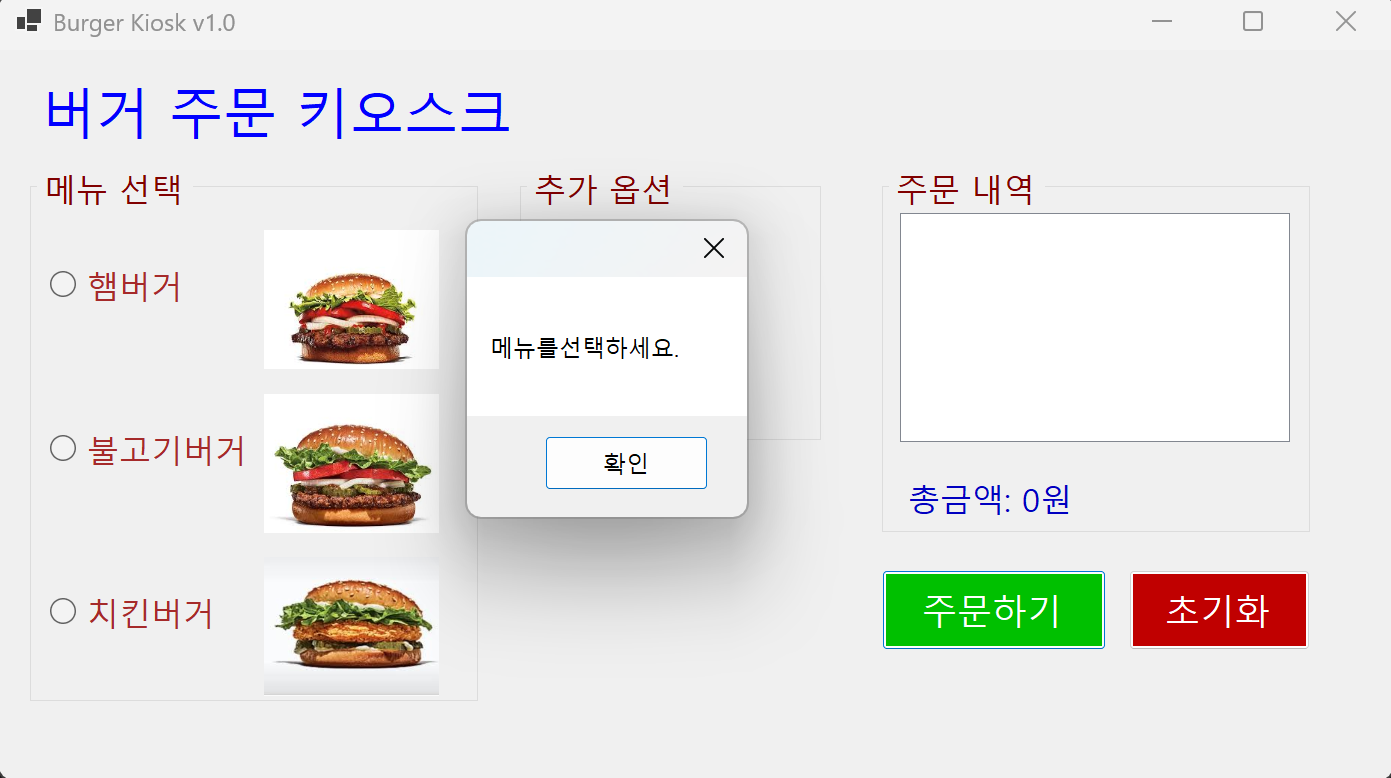
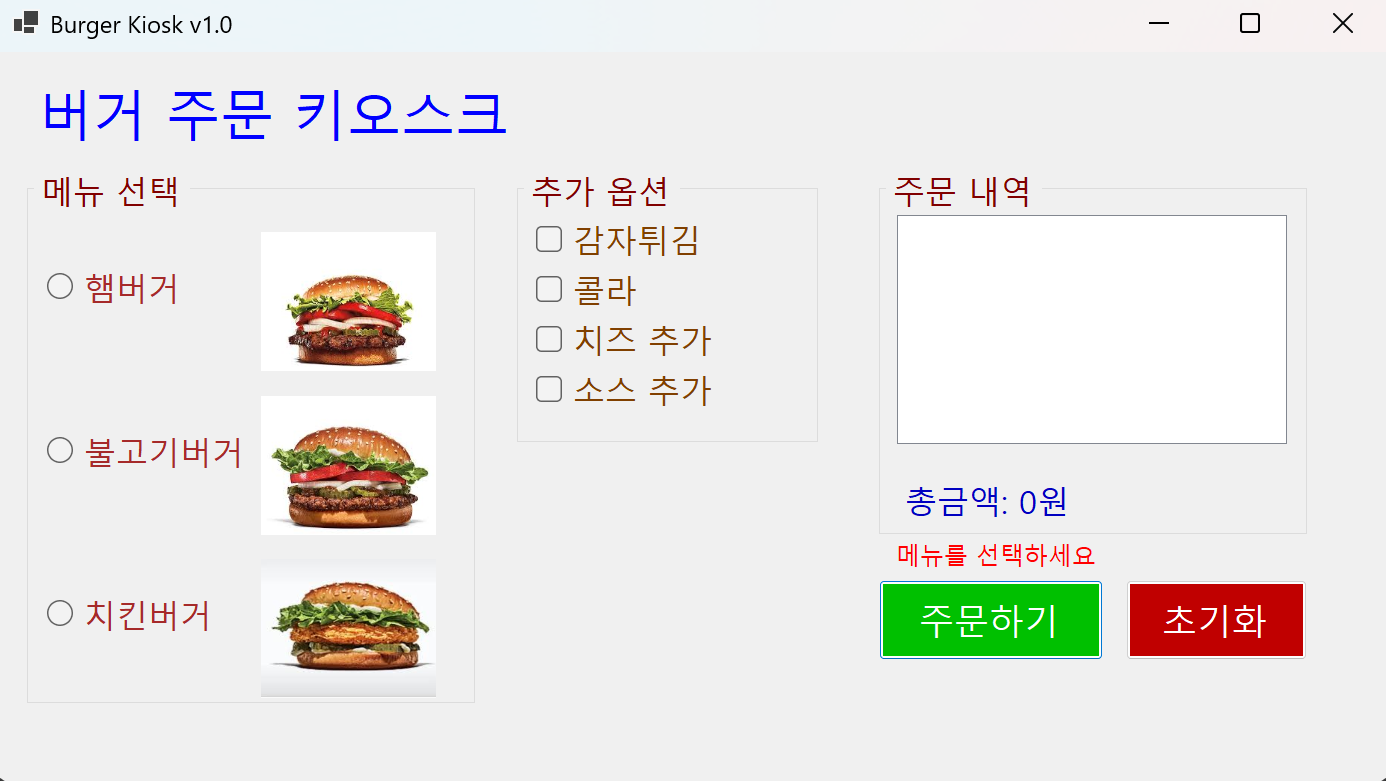
README 최종

diff --git a/README.md b/README.md
@@ -1,0 +1,98 @@
+# (C# 코딩) BurgerKiosk
+
+## 개요
+- C# 프로그래밍 학습
+
+- 1줄 소개 : 사용자의 선택 기반 입력을 받아서 키오스크 기능을 구현한 프로그램
+
+- 사용한 플랫폼 :
+  - ```C#```, ```.NET Windows Forms```, ```Visual Studio 2026```, ```GitHub``` 
+  
+- 사용한 컨트롤 :  
+    - ```Label,GroupBox, PictureBox, ListBox, RadioButton, CheckBox,Button```
+    
+- 사용한 기술과 구현한 기능 :
+  - **Windows Forms 앱 (C#)**: `Visual Studio`의 디자이너를 활용하여 직관적인 키오스크 UI(RadioButton, CheckBox) 
+  - **TabIndex 및 TabStop 속성 활용**: `Tab` 키로 입력 필드 간 이동 및 포커스 설정
+  - **AcceptButton 속성 활용** :  `Enter` 키로 로그인 시도 가능하도록 설정하여 키보드 접근성 향상
+ 
+ 
+- 화면 구성 : 
+  
+  <img src = "img/Main.png">
+
+## 실행 화면 (과제1)
+
+- 과제1 코드의 실행 스크린샷
+
+<img src = "img/Step1 (1).png">
+
+<img src = "img/Step1 (2).png">
+
+<img src = "img/Step1 (3).png">
+
+
+  - 과제 내용
+    - 컨트롤 배치와 기본적인 속성 설정 
+    - 선택된 항목 추출 기능 구현
+      
+  - 구현 내용과 기능 설명
+    - **UI 구성** : ```RadioButton```과 ```CheckBox```등을 적절히 배치
+    - **GroupBox 묶기** : ```GroupBox```로 적절하게 그룹으로 묶기
+    - **주문하기 및 초기화 버튼** : 주문내역과 총 금액 표시, 다시 주문할 수 있도록 초기화
+    
+  - 사용한 기술과 구현한 기능
+    - ```RadioButton과 CheckBox, GroupBox```등의 컨트롤을 활용한 UI 구성
+    - ```radioButton.Checked```, ```checkBox.Checked```속성을 활용해 ```RadioButton```과 ```CheckBox```의 선택 여부를 검사하여 개별 가격 연산 및 초기화
+    - ```listBox.Item.Add()```를 활용하여 선택된 값을 ```ListBox```에 추가
+    
+
+## 실행 화면 (과제2)
+
+- 과제2 코드의 실행 스크린샷
+
+<img src = "img/Step2.png"> 
+
+- 과제 내용
+    - 아무것도 선택하지 않고 주문하기 버튼을 누르면 에러 메시지 표시
+      
+- 구현 내용과 기능 설명
+    - **에러 메시지 표시** : 아무것도 선택하지 않고 주문하기 버튼을 누르면 에러 메시지 표시 전환 
+   
+- 사용한 기술과 구현한 기능
+    - ```Label``` 컨트롤 추가
+    - ```Visible``` 속성을 활용하여 메시지 보이기와 숨기기 기능 구현
+  
+## 실행 화면 (과제3)
+
+- 과제3 코드의 실행 스크린샷
+ <img src = "img/Step3.png">
+
+ - 과제 내용
+    - 마우스 없이 키보드 입력만으로 주문이 가능하게 만들기
+ 
+ - 구현 내용과 기능 설명
+    - **Tab 입력 처리** : ```Tab```을 이용해서 ```GroupBox```사이를 이동
+    - **방향키 입력 처리** : ```방향키```를 이용해서 선택 아이템 사이 이동
+    - **Space 입력 처리** : ```Space```를 이용해서 아이템 선택
+    - **Enter 입력 처리** : ```Enter```를 이용해서 주문하기 버튼 클릭
+
+- 사용한 기술과 구현한 기능
+    - ```TabIndex```와 ```TabStop``` 속성을 활용하여 탭 순서 설정 및 포커스 설정
+    - ```AcceptButton``` 속성을 활용하여 ```Enter```키로 주문하기 버튼 클릭 
+
+## 실행 화면 (과제4)
+
+ - 과제4 코드의 실행 스크린샷
+
+    <img src = "img/Step4.png">
+
+- 과제 내용
+    - ```RadioButton```과 ```CheckBox```에서 원하는 항목을 선택하면 그 즉시 정보 업데이트
+
+- 구현 내용과 기능 설명
+    - **실시간 정보 업데이트** :  선택이 변경될 때마다 주문 내역과 총 금액이 즉시 업데이트되도록 구현    
+
+- 사용한 기술과 구현한 기능
+    - ```CheckedChanged``` 이벤트 핸들러를 활용하여 ```RadioButton```과 ```CheckBox```의 선택이 변경될 때마다 주문 내역과 총 금액 업데이트 구현 
+    - ```listBox.Items.Remove()```를 활용하여 선택이 해제된 아이템을 ```ListBox```에서 제거
